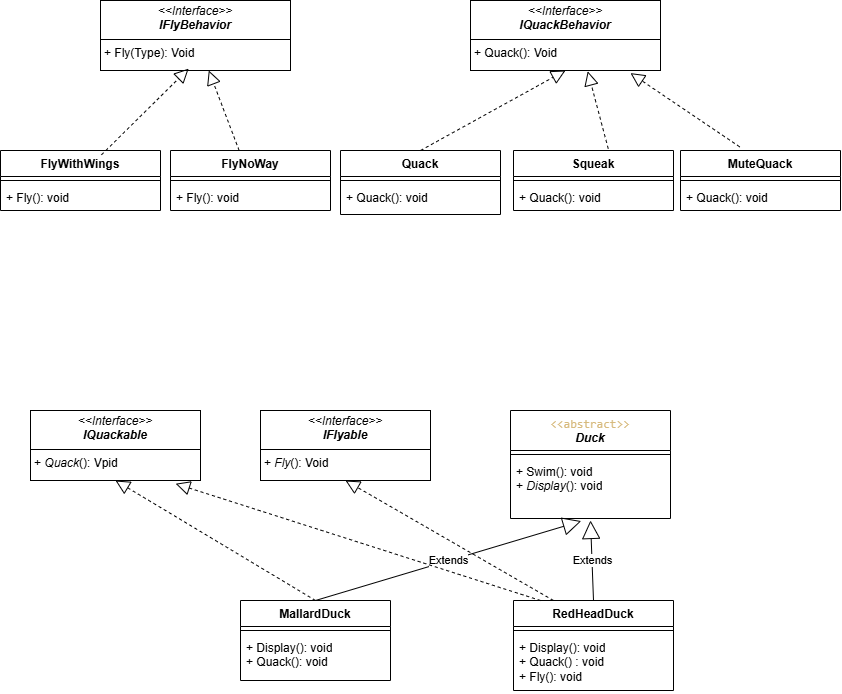
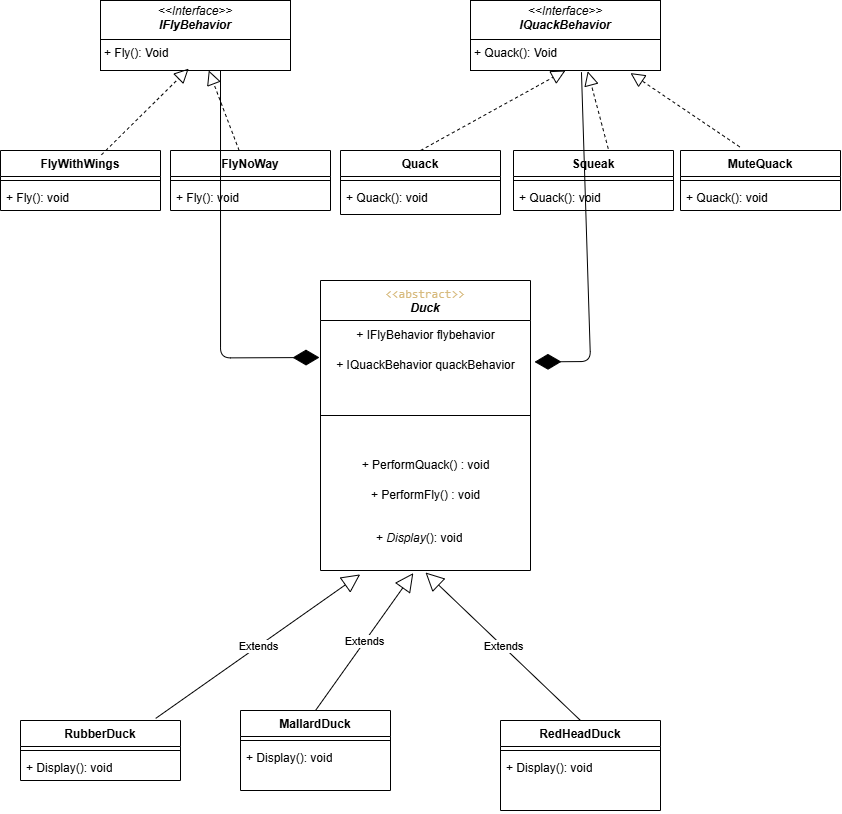
used the behavior using composition which were seprated out into other classes.

diff --git a/Strategy Pattern/Program.cs b/Strategy Pattern/Program.cs
@@ -3,16 +3,23 @@ public class Program
 {
     static void Main(string[] args)
     {
-        RedheadDuck redheadDuck = new RedheadDuck();
+        Duck redheadDuck = new RedheadDuck();
         redheadDuck.Display();
-        redheadDuck.Quack();
-        redheadDuck.Swim();
-        redheadDuck.Fly();
+        redheadDuck.PerformQuack();
+        redheadDuck.PerformSwim();
+        redheadDuck.PerformFly();
 
-        MallardDuck mallardDuck = new MallardDuck();
+        Duck mallardDuck = new MallardDuck();
         mallardDuck.Display();
-        mallardDuck.Quack();
-        mallardDuck.Swim();
+        mallardDuck.PerformQuack();
+        mallardDuck.PerformSwim();
+        mallardDuck.PerformFly();
+
+        Duck rubberDuck = new RubberDuck();
+        rubberDuck.Display();
+        rubberDuck.PerformQuack();
+        rubberDuck.PerformSwim();  
+        rubberDuck.PerformFly();
 
 
         // whats happens    

diff --git a/Strategy Pattern/Duck.cs b/Strategy Pattern/Duck.cs
@@ -1,9 +1,22 @@
+using Strategy_Pattern.Interfaces;
 namespace Strategy_Pattern;
 public abstract class Duck 
 {
-    public void Swim()
+    public IQuackBehavior quackBehavior { get; set; }
+    public IFlyBehavior flyBehavior { get; set; }
+    public ISwimBehavior swimBehavior { get; set; }
+
+    public void PerformFly()
     {
-        System.Console.WriteLine("Swimming!");
+        flyBehavior.Fly();
+    }
+    public void PerformQuack()
+    {
+        quackBehavior.Quack();
+    }
+    public void PerformSwim()
+    {
+        swimBehavior.Swim();
     }
 
     public abstract void Display();

diff --git a/Strategy Pattern/RedheadDuck.cs b/Strategy Pattern/RedheadDuck.cs
@@ -1,14 +1,12 @@
 using Strategy_Pattern.Interfaces;
 namespace Strategy_Pattern;
-public class RedheadDuck : Duck, IFlyable, IQuackable
+public class RedheadDuck : Duck
 {
-    public void Fly()
+    public RedheadDuck()
     {
-        System.Console.WriteLine("Flying!");
-    }
-    public void Quack()
-    {
-        System.Console.WriteLine("Quack!");
+        flyBehavior = new FlyWithWings();
+        quackBehavior = new Squeak();
+        swimBehavior = new Swimming();
     }
     public override void Display()
     {

diff --git a/Strategy Pattern/MallardDuck.cs b/Strategy Pattern/MallardDuck.cs
@@ -1,10 +1,12 @@
 using Strategy_Pattern.Interfaces;
 namespace Strategy_Pattern;
-public class MallardDuck : Duck, IQuackable
+public class MallardDuck : Duck
 {
-    public void Quack()
+    public MallardDuck()
     {
-        System.Console.WriteLine("Quack!");
+        flyBehavior = new FlyWithWings();
+        quackBehavior = new Quacking();
+        swimBehavior = new Swimming();
     }
 
     public override void Display()

diff --git a/Strategy Pattern/RubberDuck.cs b/Strategy Pattern/RubberDuck.cs
@@ -1,0 +1,16 @@
+using Strategy_Pattern.Interfaces;
+namespace Strategy_Pattern;
+public class RubberDuck : Duck
+{
+    public RubberDuck()
+    {
+        flyBehavior = new FlyNoWay();
+        quackBehavior = new MuteQuack();
+        swimBehavior = new NoSwim();
+    }
+
+    public override void Display()
+    {
+        System.Console.WriteLine("I'm a Rubber Duck!");
+    }
+}

diff --git a/Strategy Pattern/NoSwim.cs b/Strategy Pattern/NoSwim.cs
@@ -1,0 +1,9 @@
+using Strategy_Pattern.Interfaces;
+namespace Strategy_Pattern;
+public class NoSwim : ISwimBehavior
+{
+    public void Swim()
+    {
+        System.Console.WriteLine("I can't swim!");
+    }
+}

diff --git a/Strategy Pattern/Swimming.cs b/Strategy Pattern/Swimming.cs
@@ -1,0 +1,9 @@
+using Strategy_Pattern.Interfaces;
+namespace Strategy_Pattern;
+public class Swimming : ISwimBehavior
+{
+    public void Swim()
+    {
+        System.Console.WriteLine("Swimming!");
+    }
+}

diff --git a/Strategy Pattern/Quacking.cs b/Strategy Pattern/Quacking.cs
@@ -1,6 +1,6 @@
 using Strategy_Pattern.Interfaces;
 namespace Strategy_Pattern;
-public class Quack : IQuackBehavior
+public class Quacking : IQuackBehavior
 {
     public void Quack()
     {

diff --git a/Strategy Pattern/Interfaces/IQuackBehavior.cs b/Strategy Pattern/Interfaces/IQuackBehavior.cs
@@ -1,5 +1,5 @@
 namespace Strategy_Pattern.Interfaces;
-interface IQuackBehavior
+public interface IQuackBehavior
 {
     void Quack();
 }

diff --git a/Strategy Pattern/Interfaces/IFlyBehavior.cs b/Strategy Pattern/Interfaces/IFlyBehavior.cs
@@ -1,5 +1,5 @@
 namespace Strategy_Pattern.Interfaces;
-interface IFlyBehavior
+public interface IFlyBehavior
 {
     void Fly();
 }

diff --git a/Strategy Pattern/Interfaces/ISwimBehavior.cs b/Strategy Pattern/Interfaces/ISwimBehavior.cs
@@ -1,0 +1,5 @@
+namespace Strategy_Pattern;
+public interface ISwimBehavior
+{
+    void Swim();
+}
